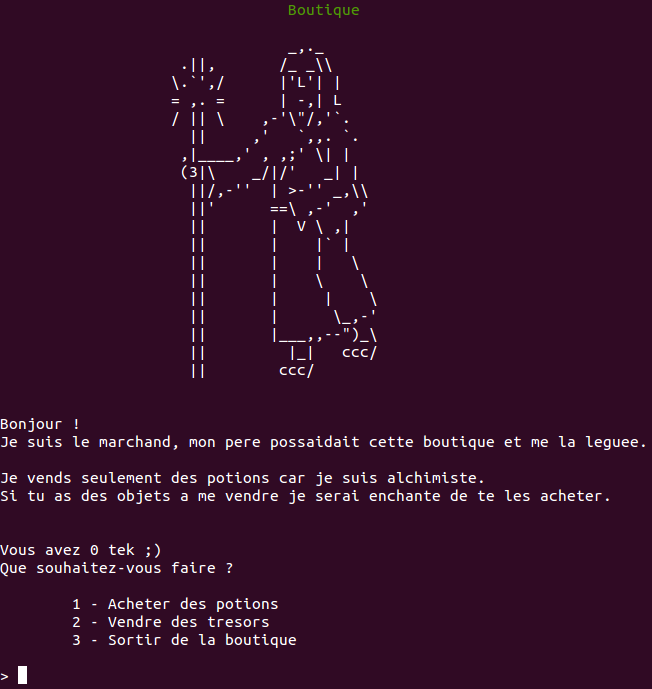
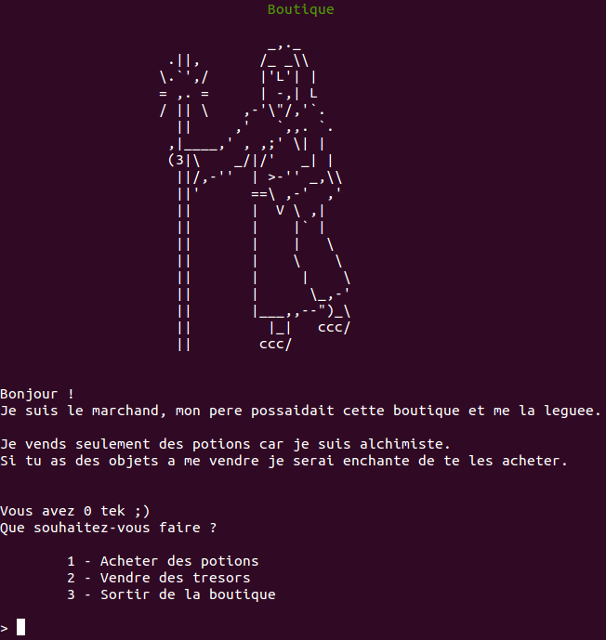
Improved Rhyddid's article + Reduced images' size from the article

diff --git a/src/pages/projets/rhyddid.html b/src/pages/projets/rhyddid.html
@@ -178,13 +178,13 @@ function toggle_visibility(id) {
 
 <a href=""><h1 id="rhyddid">Rhyddid</h1></a>
 <p>Date du projet : octobre 2013 &#224; janvier 2014<br />
-<em>Modifi&#233; le : 11/10/2015</em></p>
+<em>Modifi&#233; le : 08/12/2015</em></p>
 <h2 id="introduction">Introduction</h2>
-<p>Rhyddid est mon deuxi&#232;me projet de jeu en C, cette fois ci je n'ai pas repris des jeux existants, et j'ai utilis&#233; uniquement des fonctions de la console (comme l'utilisation de la couleur, inspir&#233;e du jeu de Pacman de <a href="/projets/ascii_funfair.html">ASCII Funfair</a>). C&#8217;&#233;tait mon premier projet poss&#233;dant plusieurs fichiers sources (et peut-&#234;tre un peu trop quand j'y pense aujourd'hui ...), dont la gestion de ces derniers laisse encore &#224; d&#233;sirer. Cependant ce projet &#233;tait bien plus d&#233;velopp&#233; que mon pr&#233;c&#233;dent, j'ai appris &#233;norm&#233;ment de choses et j&#8217;ai pris beaucoup de plaisir &#224; le r&#233;aliser.</p>
+<p>Rhyddid est mon deuxi&#232;me projet de jeu en C, cette fois ci je n'ai pas repris des jeux existants, et j'ai utilis&#233; uniquement des fonctions de la console (comme l'utilisation de la couleur, inspir&#233;e du jeu de Pacman de <a href="/projets/ascii_funfair.html">ASCII Funfair</a>). C&#8217;&#233;tait mon premier projet poss&#233;dant plusieurs fichiers sources (et peut-&#234;tre un peu trop quand j'y pense aujourd'hui...), dont la gestion de ces derniers laisse encore &#224; d&#233;sirer. Cependant ce projet &#233;tait bien plus d&#233;velopp&#233; que mon pr&#233;c&#233;dent, j'ai appris &#233;norm&#233;ment de choses et j&#8217;ai pris beaucoup de plaisir &#224; le r&#233;aliser.</p>
 <h2 id="quest-ce-que-rhyddid">Qu'est-ce que Rhyddid ?</h2>
-<p>Rhyddid est un rogue-like, dans lequel vous incarnez un personnage dont vous choisissez les caract&#233;ristiques gr&#226;ce aux diff&#233;rents races et m&#233;tiers. Vous traversez les niveaux, en combattant et en d&#233;couvrant des objets (armes, armures et tr&#233;sors). Chaque niveau poss&#232;de une cl&#233; pour acc&#233;der au niveau suivant, cette cl&#233; se trouve al&#233;atoirement sur le niveau bien gard&#233;e par l&#8217;un des ennemis. Chaque niveau est compos&#233; de 9 salles, toutes diff&#233;rentes et contenant des coffres, des ennemis et m&#234;me une caverne si vous &#234;tes chanceux...</p>
+<p>Rhyddid est un rogue-like, dans lequel vous incarnez un personnage dont vous choisissez les caract&#233;ristiques gr&#226;ce aux diff&#233;rentes races et aux multiples m&#233;tiers. Vous traversez les niveaux, en combattant et en d&#233;couvrant des objets (armes, armures et tr&#233;sors). Chaque niveau poss&#232;de une cl&#233; pour acc&#233;der au niveau suivant, cette cl&#233; se trouve al&#233;atoirement sur le niveau bien gard&#233;e par l&#8217;un des ennemis. Chaque niveau est compos&#233; de neuf salles, toutes diff&#233;rentes et contenant des coffres, des ennemis et m&#234;me une caverne si vous &#234;tes chanceux...</p>
 <p>Lorsque vous passez un niveau, vous pouvez acc&#233;der &#224; la boutique pour vendre vos tr&#233;sors, gagner de l'argent et aussi acheter des potions.</p>
-<p>Le jeu contient 6 races, 15 m&#233;tiers, 35 armes, 30 armures, 3 types de potions de 2 niveaux diff&#233;rents, et 50 tr&#233;sors.</p>
+<p>Le jeu contient 6 races, 15 m&#233;tiers, 35 armes, 30 armures, 3 types de potions de deux niveaux diff&#233;rents, et 50 tr&#233;sors.</p>
 <h2 id="images-du-jeu">Images du jeu</h2>
 <p>Voici quelques captures d&#8217;&#233;cran du jeu :</p>
 <div class="figure">
@@ -208,7 +208,9 @@ function toggle_visibility(id) {
 <p class="caption">Dans la boutique</p>
 </div>
 <h2 id="lien">Lien</h2>
-<p>Le lien vers la page Github du projet : <a href="https://github.com/iTech-/Rhyddid" class="uri">https://github.com/iTech-/Rhyddid</a></p>
+<p>Le lien vers la page Github du projet pour plus d'informations sur le jeu : <a href="https://github.com/iTech-/Rhyddid" class="uri">https://github.com/iTech-/Rhyddid</a></p>
+<h2 id="conclusion">Conclusion</h2>
+<p>Comme je l'ai dit dans l'introduction, ce projet m'a appris &#233;norm&#233;ment, et j'ai surtout pu exp&#233;rimenter la gestion de plusieurs fichiers sources &#224; la fois. Cependant, apr&#232;s Rhyddid, je ne voulais plus faire de jeu &#224; cause de la partie graphique du programme. En effet, je n'ai jamais eu d'envie particuli&#232;re d'apprendre une librairie graphique, et je me suis content&#233; des fonctions de la console, mais ces derni&#232;res n'&#233;taient pas toujours portables ni optimis&#233;es pour d'autres environnements que Linux (en plus d'&#234;tre limit&#233;es par rapport aux fonctions de librairies externes). Je me suis donc pench&#233; vers d'autres projets de programmation totalement diff&#233;rents de l'univers du jeu vid&#233;o.</p>
  
       <!-- ------------ -->
 

diff --git a/src/pages/temp.html b/src/pages/temp.html
@@ -327,7 +327,7 @@ function toggle_visibility(id) {
 <p class="relire">
 <span>- NandToTetris</br></span>
 </p>
-<p class="relire">
+<p class="pret">
 <span>- Rhyddid</br></span>
 </p>
 <p class="pret">

diff --git a/articles/projets/rhyddid/rhyddid.md b/articles/projets/rhyddid/rhyddid.md
@@ -3,19 +3,19 @@ Rhyddid
 projets/
 
 Date du projet : octobre 2013 à janvier 2014  
-*Modifié le : 11/10/2015*
+*Modifié le : 08/12/2015*
 
 ## Introduction
 
-Rhyddid est mon deuxième projet de jeu en C, cette fois ci je n'ai pas repris des jeux existants, et j'ai utilisé uniquement des fonctions de la console (comme l'utilisation de la couleur, inspirée du jeu de Pacman de [ASCII Funfair](/projets/ascii_funfair.html)). C’était mon premier projet possédant plusieurs fichiers sources (et peut-être un peu trop quand j'y pense aujourd'hui ...), dont la gestion de ces derniers laisse encore à désirer. Cependant ce projet était bien plus développé que mon précédent, j'ai appris énormément de choses et j’ai pris beaucoup de plaisir à le réaliser.
+Rhyddid est mon deuxième projet de jeu en C, cette fois ci je n'ai pas repris des jeux existants, et j'ai utilisé uniquement des fonctions de la console (comme l'utilisation de la couleur, inspirée du jeu de Pacman de [ASCII Funfair](/projets/ascii_funfair.html)). C’était mon premier projet possédant plusieurs fichiers sources (et peut-être un peu trop quand j'y pense aujourd'hui...), dont la gestion de ces derniers laisse encore à désirer. Cependant ce projet était bien plus développé que mon précédent, j'ai appris énormément de choses et j’ai pris beaucoup de plaisir à le réaliser.
 
 ## Qu'est-ce que Rhyddid ?
 
-Rhyddid est un rogue-like, dans lequel vous incarnez un personnage dont vous choisissez les caractéristiques grâce aux différents races et métiers. Vous traversez les niveaux, en combattant et en découvrant des objets (armes, armures et trésors). Chaque niveau possède une clé pour accéder au niveau suivant, cette clé se trouve aléatoirement sur le niveau bien gardée par l’un des ennemis. Chaque niveau est composé de 9 salles, toutes différentes et contenant des coffres, des ennemis et même une caverne si vous êtes chanceux...
+Rhyddid est un rogue-like, dans lequel vous incarnez un personnage dont vous choisissez les caractéristiques grâce aux différentes races et aux multiples métiers. Vous traversez les niveaux, en combattant et en découvrant des objets (armes, armures et trésors). Chaque niveau possède une clé pour accéder au niveau suivant, cette clé se trouve aléatoirement sur le niveau bien gardée par l’un des ennemis. Chaque niveau est composé de neuf salles, toutes différentes et contenant des coffres, des ennemis et même une caverne si vous êtes chanceux...
 
 Lorsque vous passez un niveau, vous pouvez accéder à la boutique pour vendre vos trésors, gagner de l'argent et aussi acheter des potions.
 
-Le jeu contient 6 races, 15 métiers, 35 armes, 30 armures, 3 types de potions de 2 niveaux différents, et 50 trésors.
+Le jeu contient 6 races, 15 métiers, 35 armes, 30 armures, 3 types de potions de deux niveaux différents, et 50 trésors.
 
 ## Images du jeu
 
@@ -33,4 +33,8 @@ Voici quelques captures d’écran du jeu :
 
 ## Lien
 
-Le lien vers la page Github du projet : <https://github.com/iTech-/Rhyddid>
+Le lien vers la page Github du projet pour plus d'informations sur le jeu : <https://github.com/iTech-/Rhyddid>
+
+## Conclusion
+
+Comme je l'ai dit dans l'introduction, ce projet m'a appris énormément, et j'ai surtout pu expérimenter la gestion de plusieurs fichiers sources à la fois. Cependant, après Rhyddid, je ne voulais plus faire de jeu à cause de la partie graphique du programme. En effet, je n'ai jamais eu d'envie particulière d'apprendre une librairie graphique, et je me suis contenté des fonctions de la console, mais ces dernières n'étaient pas toujours portables ni optimisées pour d'autres environnements que Linux (en plus d'être limitées par rapport aux fonctions de librairies externes). Je me suis donc penché vers d'autres projets de programmation totalement différents de l'univers du jeu vidéo.

diff --git a/articles/temp.md b/articles/temp.md
@@ -55,7 +55,7 @@ La liste des articles publiés :
    <p class="relire"><span>- napnac.ga</br></span></p>
    <p class="relire"><span>- IOI</br></span></p>
    <p class="relire"><span>- NandToTetris</br></span></p>
-   <p class="relire"><span>- Rhyddid</br></span></p>
+   <p class="pret"><span>- Rhyddid</br></span></p>
    <p class="pret"><span>- ASCII Funfair</br></span></p>
    <p class="pret"><span>- Pseudo-C</br></span></p>
 

diff --git a/TODO.md b/TODO.md
@@ -13,10 +13,6 @@ version "code source")
 # Algorithme
 ## Structure de données
 
-### Tableau cumulatif
-
-- Pseudo-code (1D et 2D)
-
 ### Liste chaînée
 
 - Rajouter d'autres variantes
